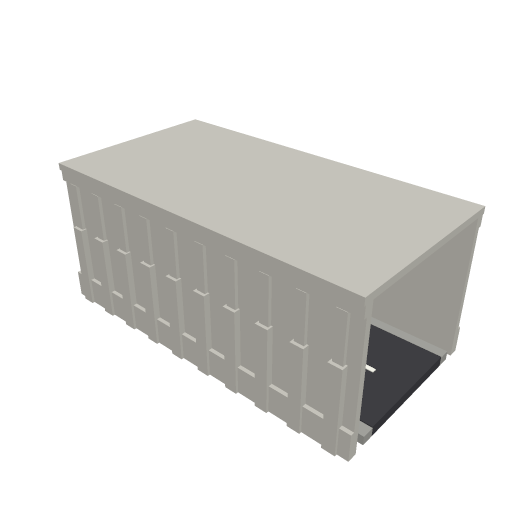
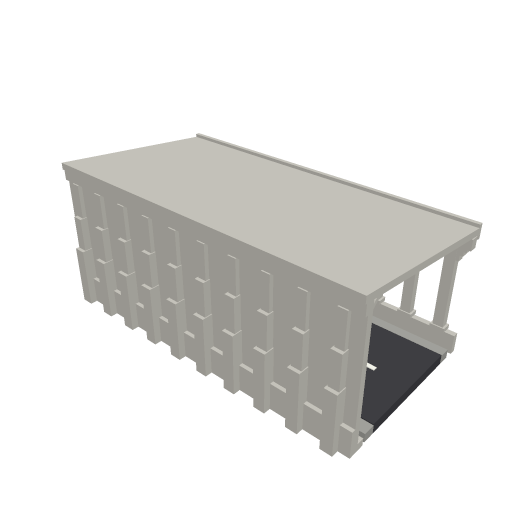
Decorations: a real noise barrier and an arched alpine gallery
The noise wall stands on a concrete plinth with four absorber cassettes,
steel seams, a coping and an H-post every module. The gallery's open side
gets chunky pillars with stepped haunches (arched bays), and keeps plain
pillars in the far tile so its roof no longer floats; the walled side gets
stepped counterforts, an inner haunch and a cable trough; the open eave a
fascia. The preview walls the gallery on one side so its colonnade shows.

Claude-Session: https://claude.ai/code/session_01BW4qmX257mQBnXBDRPMTko

diff --git a/generator/sets/decoration.ts b/generator/sets/decoration.ts
@@ -62,6 +62,18 @@ const GALLERY_BEAM = 1.3;     // depth of the head beam / the cornice facing it
 const GALLERY_EAVE = 1.1;     // how far the slab oversails the open side
 const GALLERY_EAVE_SOLID = 0.9; // ...and the solid one, clear of its cornice
 const GALLERY_LIP = 0.45;     // upstand along the open eave
+const GALLERY_FASCIA = 0.5;   // how far the open eave's fascia hangs below the slab
+const GALLERY_HAUNCH = 1.1;   // how far the inside haunch reaches from the wall under the roof
+const GALLERY_TROUGH = 0.9;   // width of the cable trough along the wall's inside foot
+
+// the noise wall's cross-section, in studs above the ground it stands on (its top is TYPE_META.wall.top)
+const WALL_PLINTH = 1.0;      // top of the concrete plinth
+const WALL_PLINTH_HALF = 0.32;
+const WALL_PANEL_HALF = 0.22; // the absorber cassettes' half thickness
+const WALL_PANEL_TOP = 4.8;   // top of the highest cassette, under the coping
+const WALL_CASSETTES = 4;     // cassettes stacked between plinth and coping
+const WALL_SEAM = 0.1;        // the gap between two cassettes, showing the steel behind
+const WALL_POST_TOP = 5;      // the H-posts' tops
 
 // the guardrail's cross-section, in studs above the shoulder it is bolted to
 const GUARDRAIL_HEIGHT: number = TYPE_META.guardrail!.section!.height!;
@@ -128,9 +140,28 @@ export function buildPiece(kind: string, p: DecorationPiece, ctx: DecorationCont
     if (kind === "trees") {
       out.tree(side, sx, sz, ground);
     } else if (kind === "wall") {
+      // a highway noise barrier: a concrete plinth, absorber cassettes stacked on it
+      // with a seam between each, a steel coping and an H-post at every joint
       const ga = ctx.heightAt(p.a.x - p.a.tz * distance, p.a.z + p.a.tx * distance);
       const gb = ctx.heightAt(p.b.x - p.b.tz * distance, p.b.z + p.b.tx * distance);
-      out.sweep("wall", p.a, p.b, distance + 0.25, distance - 0.25, ga - 0.2, ga + 5, gb - 0.2, gb + 5);
+      const layer = (material: DecorationMaterial, half: number, bottom: number, top: number): void =>
+        out.sweep(material, p.a, p.b, distance + half, distance - half, ga + bottom, ga + top, gb + bottom, gb + top);
+      layer("concrete", WALL_PLINTH_HALF, -0.2, WALL_PLINTH);
+      if (high) {
+        // each seam is a thinner steel strip abutting the cassettes above and below,
+        // so no two faces of different materials share a plane
+        const step = (WALL_PANEL_TOP - WALL_PLINTH) / WALL_CASSETTES;
+        for (let i = 0; i < WALL_CASSETTES; i++) {
+          const bottom = WALL_PLINTH + i * step + (i ? WALL_SEAM / 2 : 0);
+          const top = WALL_PLINTH + (i + 1) * step - (i < WALL_CASSETTES - 1 ? WALL_SEAM / 2 : 0);
+          layer("wall", WALL_PANEL_HALF, bottom, top);
+          if (i < WALL_CASSETTES - 1) layer("metal", WALL_PANEL_HALF - 0.08, top, top + WALL_SEAM);
+        }
+        layer("metal", WALL_PANEL_HALF + 0.06, WALL_PANEL_TOP, WALL_PANEL_TOP + 0.18);
+        // the post at the module's start, stood on the ground there, its flanges proud of both faces
+        const px = p.a.x - p.a.tz * distance, pz = p.a.z + p.a.tx * distance;
+        out.box("metal", px, (ga - 0.2 + ga + WALL_POST_TOP) / 2, pz, WALL_PANEL_HALF * 2 + 0.24, WALL_POST_TOP + 0.2, 0.32, Math.atan2(p.a.tx, p.a.tz));
+      } else layer("wall", WALL_PANEL_HALF, WALL_PLINTH, WALL_PANEL_TOP + 0.18);
     } else if (kind === "gallery") {
       // The uphill side is a wall; the valley side is a colonnade on a low kerb.
       const solid = p.side === side || p.side === "both";
@@ -138,10 +169,10 @@ export function buildPiece(kind: string, p: DecorationPiece, ctx: DecorationCont
       const gb = ctx.heightAt(p.b.x - p.b.tz * distance, p.b.z + p.b.tx * distance);
       const rise = solid ? GALLERY_RISE : 0;
       const soffitA = p.a.y + GALLERY_CLEARANCE + rise, soffitB = p.b.y + GALLERY_CLEARANCE + rise;
+      const sign = side === "left" ? 1 : -1;
       if (solid) {
         // flush on the inside, articulated outside: a battered base course, a
-        // cornice under the slab and a stepped buttress every module
-        const sign = side === "left" ? 1 : -1;
+        // cornice under the slab and a stepped counterfort every module
         const inner = distance - sign * 0.35;
         const course = (outward: number, bottomA: number, topA: number, bottomB: number, topB: number): void => {
           const outer = distance + sign * outward;
@@ -151,19 +182,36 @@ export function buildPiece(kind: string, p: DecorationPiece, ctx: DecorationCont
         course(0.35, p.a.y + GALLERY_PLINTH, soffitA, p.b.y + GALLERY_PLINTH, soffitB);
         course(0.7, soffitA - GALLERY_BEAM, soffitA, soffitB - GALLERY_BEAM, soffitB);
         if (high) {
-          const top = wayY + GALLERY_CLEARANCE + rise, waist = (wayY + GALLERY_PLINTH + top) / 2;
-          member({ x, y: wayY, z, tx, tz }, 1.5, distance + sign * 0.7, 0.4, ground - 0.2, waist);
-          member({ x, y: wayY, z, tx, tz }, 1.1, distance + sign * 0.5, 0.25, waist, top - GALLERY_BEAM);
+          const top = wayY + GALLERY_CLEARANCE + rise, here = { x, y: wayY, z, tx, tz };
+          const third = (top - GALLERY_BEAM - wayY - GALLERY_PLINTH) / 3;
+          const foot = wayY + GALLERY_PLINTH;
+          // the counterfort steps in as it climbs: wide at the foot, slender under the cornice
+          member(here, 1.4, distance + sign * 1.0, 0.65, ground - 0.2, foot + third);
+          member(here, 1.2, distance + sign * 0.8, 0.45, foot + third, foot + 2 * third);
+          member(here, 1.0, distance + sign * 0.6, 0.25, foot + 2 * third, top - GALLERY_BEAM);
+          // inside: a haunch where the wall meets the roof, and a cable trough at its foot
+          const face = distance - sign * 0.35, haunchIn = face - sign * GALLERY_HAUNCH;
+          // a sheared course, low at the wall and lifted to the roof's underside toward the way
+          const roadRise = GALLERY_HAUNCH * 0.9;
+          out.sweep("concrete", p.a, p.b, Math.max(face, haunchIn), Math.min(face, haunchIn),
+            soffitA - roadRise - 0.1, soffitA - roadRise + 0.45, soffitB - roadRise - 0.1, soffitB - roadRise + 0.45,
+            sign > 0 ? 0 : roadRise, sign > 0 ? roadRise : 0);
+          const trough = face - sign * GALLERY_TROUGH;
+          out.sweep("concrete", p.a, p.b, Math.max(face, trough), Math.min(face, trough),
+            Math.min(ga, p.a.y) - 0.2, p.a.y + 0.7, Math.min(gb, p.b.y) - 0.2, p.b.y + 0.7);
         }
       } else {
-        out.sweep("concrete", p.a, p.b, distance + 0.3, distance - 0.3, ga - 0.2, p.a.y + GALLERY_KERB, gb - 0.2, p.b.y + GALLERY_KERB);
-        out.sweep("concrete", p.a, p.b, distance + 0.45, distance - 0.45, soffitA - GALLERY_BEAM, soffitA, soffitB - GALLERY_BEAM, soffitB);
+        out.sweep("concrete", p.a, p.b, distance + 0.35, distance - 0.35, ga - 0.2, p.a.y + GALLERY_KERB, gb - 0.2, p.b.y + GALLERY_KERB);
+        out.sweep("concrete", p.a, p.b, distance + 0.5, distance - 0.5, soffitA - GALLERY_BEAM, soffitA, soffitB - GALLERY_BEAM, soffitB);
+        const foot = wayY + GALLERY_KERB, head = wayY + GALLERY_CLEARANCE - GALLERY_BEAM, here = { x, y: wayY, z, tx, tz };
         if (high) {
-          const foot = wayY + GALLERY_KERB, head = wayY + GALLERY_CLEARANCE - GALLERY_BEAM;
-          member({ x, y: wayY, z, tx, tz }, 1.3, distance, 0.55, foot, foot + 0.4);  // splayed base
-          member({ x, y: wayY, z, tx, tz }, 0.9, distance, 0.38, foot, head);        // shaft
-          member({ x, y: wayY, z, tx, tz }, 1.3, distance, 0.55, head - 0.45, head); // capital
-        }
+          member(here, 1.7, distance, 0.6, foot, foot + 0.5);  // splayed base
+          member(here, 1.2, distance, 0.45, foot, head);       // shaft
+          // the haunches step out under the head beam, so every bay reads as an arched opening
+          member(here, 1.9, distance, 0.42, head - 1.6, head - 0.9);
+          member(here, 2.6, distance, 0.42, head - 0.9, head - 0.4);
+          member(here, 3.2, distance, 0.42, head - 0.4, head);
+        } else member(here, 1.2, distance, 0.45, foot, head); // the far level keeps its pillars: no floating roof
       }
     } else if (kind === "guardrail") {
       // a steel W-beam on posts, bolted to the road's shoulder, never the ground
@@ -202,6 +250,11 @@ export function buildPiece(kind: string, p: DecorationPiece, ctx: DecorationCont
     const outerRight = p.right - (rightRise ? GALLERY_EAVE_SOLID : GALLERY_EAVE);
     const soffitA = p.a.y + GALLERY_CLEARANCE, soffitB = p.b.y + GALLERY_CLEARANCE;
     out.sweep("concrete", p.a, p.b, outerLeft, outerRight, soffitA, soffitA + GALLERY_SLAB, soffitB, soffitB + GALLERY_SLAB, leftRise, rightRise);
+    // the open eave's fascia hangs below the slab, giving the roof its thick edge
+    if (!leftRise) out.sweep("concrete", p.a, p.b, outerLeft, outerLeft - 0.35,
+      soffitA - GALLERY_FASCIA, soffitA + 0.01, soffitB - GALLERY_FASCIA, soffitB + 0.01);
+    if (!rightRise) out.sweep("concrete", p.a, p.b, outerRight + 0.35, outerRight,
+      soffitA - GALLERY_FASCIA, soffitA + 0.01, soffitB - GALLERY_FASCIA, soffitB + 0.01);
     if (!leftRise) out.sweep("concrete", p.a, p.b, outerLeft, outerLeft - 0.5,
       soffitA + GALLERY_SLAB, soffitA + GALLERY_SLAB + GALLERY_LIP, soffitB + GALLERY_SLAB, soffitB + GALLERY_SLAB + GALLERY_LIP);
     if (!rightRise) out.sweep("concrete", p.a, p.b, outerRight + 0.5, outerRight,

diff --git a/test/decoration.test.ts b/test/decoration.test.ts
@@ -1,0 +1,61 @@
+// The line decoration drawings (generator/sets/decoration.ts, docs/models/sets.md):
+// what a module draws stays inside the envelope the game's placement reserves, and a
+// gallery's open side keeps its pillars in the far tile too.
+import { describe, expect, it } from "vitest";
+import * as decoration from "../generator/sets/decoration.ts";
+
+type Call = { kind: "sweep" | "box"; args: unknown[] };
+
+function draw(kind: string, side: decoration.DecorationSide, detail: string): Call[] {
+  const calls: Call[] = [];
+  const a = { x: 0, y: 0, z: 0, tx: 1, tz: 0 }, b = { x: 4, y: 0, z: 0, tx: 1, tz: 0 };
+  decoration.buildPiece(kind, { a, b, left: 9, right: -9, leftVisible: true, rightVisible: true, side },
+    { heightAt: () => 0, detail, shoulderY: 0.9 }, {
+      sweep: (...args) => calls.push({ kind: "sweep", args }),
+      box: (...args) => calls.push({ kind: "box", args }),
+      tree: () => {},
+    });
+  return calls;
+}
+
+/** The highest point a call reaches. */
+function topOf(c: Call): number {
+  if (c.kind === "box") { const [, , y, , , h] = c.args as number[]; return y + h / 2; }
+  const [, , , , , , topA, , topB, leftRise = 0, rightRise = 0] = c.args as number[];
+  return Math.max(topA, topB) + Math.max(leftRise, rightRise);
+}
+
+describe("decoration drawings", () => {
+  for (const detail of ["high", "low"]) {
+    it(`the noise wall stays under its envelope's top (${detail})`, () => {
+      const calls = draw("wall", "both", detail);
+      expect(calls.length).toBeGreaterThan(0);
+      for (const c of calls) expect(topOf(c)).toBeLessThanOrEqual((decoration.TYPE_META.wall!.top as number) + 1e-9);
+    });
+
+    it(`the gallery stays under its envelope's top (${detail})`, () => {
+      for (const side of ["both", "left", "none"] as const)
+        for (const c of draw("gallery", side, detail)) expect(topOf(c)).toBeLessThanOrEqual((decoration.TYPE_META.gallery!.top as number) + 1e-9);
+    });
+  }
+
+  it("the gallery's open side stands pillars in the far tile, so its roof never floats", () => {
+    // a pillar: a short slice reaching from the kerb up to the head beam, out at the open side
+    const pillars = (detail: string): number => draw("gallery", "left", detail).filter((c) => {
+      if (c.kind !== "sweep") return false;
+      const [, ca, , left, right, bottom, top] = c.args as [unknown, decoration.Cross, unknown, number, number, number, number];
+      return right < -8 && left > -10 && ca.x > 0.5 && bottom < 3 && top > 10;
+    }).length;
+    expect(pillars("low")).toBeGreaterThan(0);
+    expect(pillars("high")).toBeGreaterThan(0);
+  });
+
+  it("nothing over the middle of a gallery's way reaches below its roof's clearance", () => {
+    const clearance = decoration.TYPE_META.gallery!.section!.clearance!;
+    for (const c of draw("gallery", "both", "high")) {
+      if (c.kind !== "sweep") continue;
+      const [, , , left, right, bottomA] = c.args as number[];
+      if (left > -5 && right < 5) expect(bottomA, `${left}..${right}`).toBeGreaterThanOrEqual(clearance - 1e-9);
+    }
+  });
+});

diff --git a/generator/previews/ways.ts b/generator/previews/ways.ts
@@ -74,7 +74,8 @@ function roadSketch(values: ParamValues | undefined, type: string, lod: boolean)
 export function roadTypePreview(values: ParamValues | undefined, type: string): MeshBuilder { return roadSketch(values, type, false).build("road"); }
 export function roadTypePreviewLod(values: ParamValues | undefined, type: string): MeshBuilder { return roadSketch(values, type, true).build("road"); }
 
-// --- line decorations: the kind along both sides of a wide road ---
+// --- line decorations: the kind along both sides of a wide road (a gallery walled on
+// the left, so its open colonnade shows on the right) ---
 
 const DECORATION_COLORS: Record<decoration.DecorationMaterial, { color: Rgb; surface?: SurfaceId }> = {
   concrete: { color: [190, 188, 180], surface: "gallery-concrete" },
@@ -109,7 +110,7 @@ function decorationSketch(values: ParamValues | undefined, kind: string, lod: bo
   };
   for (let x = -length / 2; x + spacing <= length / 2 + 1e-6; x += spacing) {
     decoration.buildPiece(kind,
-      { a: { x, y: 0, z: 0, tx: 1, tz: 0 }, b: { x: x + spacing, y: 0, z: 0, tx: 1, tz: 0 }, left: reach, right: -reach, leftVisible: true, rightVisible: true, side: env?.sides.includes("both") ? "both" : "left" },
+      { a: { x, y: 0, z: 0, tx: 1, tz: 0 }, b: { x: x + spacing, y: 0, z: 0, tx: 1, tz: 0 }, left: reach, right: -reach, leftVisible: true, rightVisible: true, side: kind === "gallery" || !env?.sides.includes("both") ? "left" : "both" },
       { heightAt: () => 0, detail: lod ? "low" : "high", shoulderY }, out);
   }
   return s;

diff --git a/docs/models/sets.md b/docs/models/sets.md
@@ -70,6 +70,18 @@ A set's module holds what its types ARE, and the game keeps what fits them to a 
 | `bridge` | `TYPE_META`: the span policy (`maxSpan`, or none); `TYPE_PARAMS` (what a player picks per type) and `RETIRED_TYPES` / `storedBridge` (a merged type's old id and its parameters); `COLORS` (every box carries its `color`); the kit (path sampling and its deck frame, box, span, strut, wall and ribbon shapes, the deck section, piers, abutments) and one function per type, run per structural span over the path the game hands in (`pathFromPoints`, carrying the game's deck support height and overhead clearance), the cable types once over the whole path with shared towers (`cableTowerDistances`); `buildBridge(type, path, heightAt)`, the boundary pier style, `overheadMembers` and `overheadMemberEndpoints`, and the distant level `lowDetailBoxes`. Every box built from the terrain up is tagged `ground`. The types, kit and budgets: [bridges.md](bridges.md) | path planning, grade profiles, lanes, the deck geometry, the ground pier footprints, catenary fixings, merging the far level into chunks |
 | `catenaryStyle` | `TYPE_META`: the support a style draws (mast or pole); `mast(style, input)`: the railway ladder mast with its footing or deck pedestal and its trackside arms or portal beam; `pole(style, input)`: the tram pole with its bracket arm and drops. Both take the heights the game plans with and return parts in one cross-section (box, bar, pole) | the planners (spacing, sides, wire runs, bridge and station fixings), the wires, the hangers |
 
+**Decoration drawings.** In the near tile (`detail: "high"`) the noise wall (`wall`) is a
+highway barrier: a concrete plinth 1 stud high, four absorber cassettes (`wall`) with a steel
+seam between each, a steel coping and a steel H-post at the start of every module, 5 studs to
+its top; the far tile keeps the plinth and one panel. The alpine gallery's walled (uphill) side
+has a battered base course, a cornice under the roof and a counterfort stepping in three courses
+on the outside, with a haunch under the roof and a cable trough along its inside foot; its open
+(valley) side stands a pillar on a kerb every module, its head stepping out in three haunches
+so each bay reads as an arched opening, and the far tile keeps a plain pillar, so the roof never
+floats. The roof slab rises toward the walled side and oversails the open edge with a fascia
+under it and a lip on top. Nothing but the open side's head beam and the walled side's haunch
+reaches below the roof's clearance (`test/decoration.test.ts`).
+
 Fixed props (a shed, a crane, a tower) are ordinary models, not module code ([props.md](props.md));
 a set names them by id.
 
